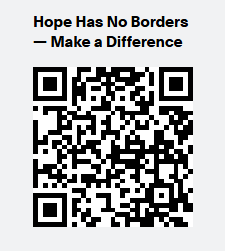
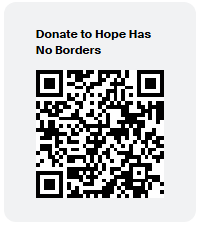
Update PayPal donate button to the new customer-set payment link.
Wire hosted ID 7J7ZVFS7JRD9Y, official Donate Now form, and refreshed QR so donors can give successfully.

diff --git a/src/components/PayPalDonate.tsx b/src/components/PayPalDonate.tsx
@@ -1,37 +1,41 @@
 import Image from "next/image";
 import { site } from "@/lib/site";
 
+/** Official PayPal payment-link button (form snippet from PayPal dashboard). */
 export function PayPalDonate() {
+  const buttonClass = `pp-${site.paypal.hostedButtonId}`;
+
   return (
     <div className="space-y-6">
-      <form
-        action={site.paypal.paymentUrl}
-        method="post"
-        target="_blank"
-        className="flex flex-col items-center gap-3"
-      >
-        <button
-          type="submit"
-          className="inline-flex h-11 min-w-[11.625rem] cursor-pointer items-center justify-center rounded-md bg-[#FFD140] px-8 text-base font-bold text-black transition-opacity hover:opacity-90 focus-ring"
+      <div className="flex flex-col items-center">
+        <style>{`.${buttonClass}{text-align:center;border:none;border-radius:0.25rem;min-width:11.625rem;padding:0 2rem;height:2.625rem;font-weight:bold;background-color:#FFD140;color:#000000;font-family:"Helvetica Neue",Arial,sans-serif;font-size:1rem;line-height:1.25rem;cursor:pointer;}`}</style>
+        <form
+          action={site.paypal.paymentUrl}
+          method="post"
+          target="_blank"
+          className="inline-grid justify-items-center content-start gap-2"
         >
-          Donate Now
-        </button>
-        {/* eslint-disable-next-line @next/next/no-img-element */}
-        <img
-          src="https://www.paypalobjects.com/images/Debit_Credit_APM.svg"
-          alt="Accepted cards and payment methods"
-          className="h-6 w-auto"
-        />
-        <p className="flex items-center gap-1.5 text-xs text-sand/70">
-          Powered by
+          <input
+            className={buttonClass}
+            type="submit"
+            value="Donate Now"
+          />
           {/* eslint-disable-next-line @next/next/no-img-element */}
           <img
-            src="https://www.paypalobjects.com/paypal-ui/logos/svg/paypal-wordmark-color.svg"
-            alt="PayPal"
-            className="h-3.5 w-auto"
+            src="https://www.paypalobjects.com/images/Debit_Credit_APM.svg"
+            alt="Accepted cards and payment methods"
           />
-        </p>
-      </form>
+          <p className="flex items-center gap-1.5 text-xs text-sand/70">
+            Powered by
+            {/* eslint-disable-next-line @next/next/no-img-element */}
+            <img
+              src="https://www.paypalobjects.com/paypal-ui/logos/svg/paypal-wordmark-color.svg"
+              alt="PayPal"
+              className="h-3.5 w-auto"
+            />
+          </p>
+        </form>
+      </div>
 
       <div className="flex flex-col items-center gap-3 border-t border-cream/15 pt-6">
         <p className="text-center text-sm text-sand/80">
@@ -40,9 +44,9 @@ export function PayPalDonate() {
         <div className="overflow-hidden rounded-md bg-cream p-3">
           <Image
             src="/brand/paypal-qr.png"
-            alt="QR code — Hope Has No Borders Make a Difference. Scan to donate with PayPal."
+            alt="QR code — Donate to Hope Has No Borders. Scan to give with PayPal."
             width={200}
-            height={240}
+            height={220}
             className="h-auto w-44 object-contain"
           />
         </div>

diff --git a/src/lib/site.ts b/src/lib/site.ts
@@ -10,8 +10,8 @@ export const site = {
   paypal: {
     clientId:
       "BAAq1FRW_FRwNMIIwqeeBqCJbsce2Zm--1gBXrZITmyRhISN8CBB-pH0xb3wnQghJ4xYCI79paDCNSiGf4",
-    hostedButtonId: "NWYA7XU5ZL2DC",
-    paymentUrl: "https://www.paypal.com/ncp/payment/NWYA7XU5ZL2DC",
+    hostedButtonId: "7J7ZVFS7JRD9Y",
+    paymentUrl: "https://www.paypal.com/ncp/payment/7J7ZVFS7JRD9Y",
     currency: "EUR",
   },
   contactEmail: "donate@hopehasnoborders.com",
